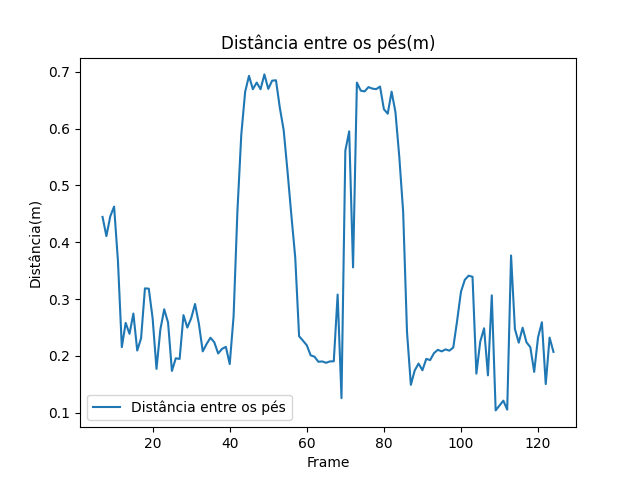
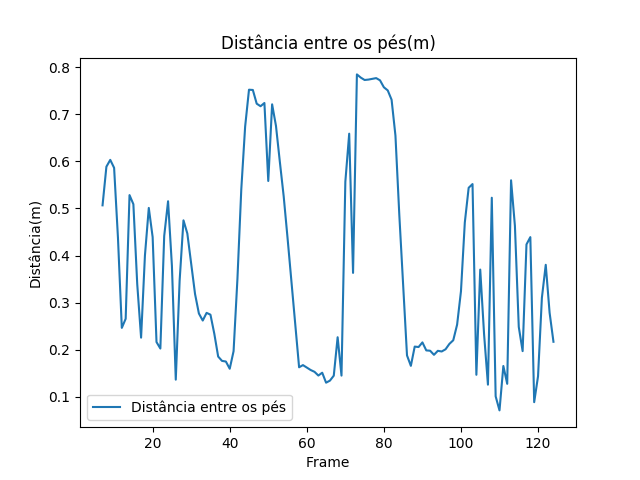
corrige o pé para ankle e add decorator

diff --git a/dataset-creator/calculate.py b/dataset-creator/calculate.py
@@ -6,6 +6,7 @@ import numpy as np
 import math
 from collections import defaultdict
 import matplotlib.pyplot as plt
+
 """
 HumanKeypoints
 Models keypoints present in the human body.
@@ -129,28 +130,28 @@ class Calculate:
         "20": "CHEST",
     }
     human_parts_name = {
-    "UNKNOWN_HUMAN_KEYPOINT": "0",
-    "HEAD": "1",
-    "NOSE": "2",
-    "NECK": "3",
-    "RIGHT_SHOULDER": "4",
-    "RIGHT_ELBOW": "5",
-    "RIGHT_WRIST": "6",
-    "LEFT_SHOULDER": "7",
-    "LEFT_ELBOW": "8",
-    "LEFT_WRIST": "9",
-    "RIGHT_HIP": "10",
-    "RIGHT_KNEE": "11",
-    "RIGHT_ANKLE": "12",
-    "LEFT_HIP": "13",
-    "LEFT_KNEE": "14",
-    "LEFT_ANKLE": "15",
-    "RIGHT_EYE": "16",
-    "LEFT_EYE": "17",
-    "RIGHT_EAR": "18",
-    "LEFT_EAR": "19",
-    "CHEST": "20",
-}
+        "UNKNOWN_HUMAN_KEYPOINT": "0",
+        "HEAD": "1",
+        "NOSE": "2",
+        "NECK": "3",
+        "RIGHT_SHOULDER": "4",
+        "RIGHT_ELBOW": "5",
+        "RIGHT_WRIST": "6",
+        "LEFT_SHOULDER": "7",
+        "LEFT_ELBOW": "8",
+        "LEFT_WRIST": "9",
+        "RIGHT_HIP": "10",
+        "RIGHT_KNEE": "11",
+        "RIGHT_ANKLE": "12",
+        "LEFT_HIP": "13",
+        "LEFT_KNEE": "14",
+        "LEFT_ANKLE": "15",
+        "RIGHT_EYE": "16",
+        "LEFT_EYE": "17",
+        "RIGHT_EAR": "18",
+        "LEFT_EAR": "19",
+        "CHEST": "20",
+    }
 
     class Vector:
         """Um segmento do corpo pode ser tratado como um vetor, com origem no ponto A e destino no ponto B. Assim, usamos álgebra para obter sua magnitude e ângulo criando vetores entre dois pontos do corpo."""
@@ -193,6 +194,23 @@ class Calculate:
         def __floordiv__(self, other):
             return self.calculate_angle(other)
 
+    def tratar_erro_frame(func):
+        """Decorator para fazer o try except automaticamente em todas as funções de cálculo.
+
+        Args:
+            func (function): Função que será decorada(Usa-se o @tratar_erro_frame acima da função)
+        """        
+        def wrapper(self, *args, **kwargs):
+            try:
+                result = func(self, *args, **kwargs)
+            except Exception as e:
+                print(f"Erro {e}")
+                return np.nan
+
+            return result
+
+        return wrapper
+
     def __init__(self, file3d):
         # Dicionario para guardar as informações que serão plotadas posteriormente
         self.plot_data: defaultdict = defaultdict(list)
@@ -205,18 +223,17 @@ class Calculate:
     def run_frames(self):
         """Passa por todos os frames, calculando as informações necessárias para o plot usando a classe Skeleton para guardar as informações. Ao final, chama a função que plota os dados"""
         for i, frame_info in enumerate(self.data):
-            self._calculate_angle('13','14','15', frame_info)
-
+            self.skeleton = Skeleton(frame_info) #Atualiza o esqueleto do frame
             # Distancia
 
             ## Distancia dos pés
-            self.plot_data['distancia_pes'].append(self.distancia_pes())
+            self.plot_data["distancia_pes"].append(self.distancia_pes())
 
             # Altura
 
             ## Altura do pé
-            self.plot_data['altura_pe_esquerdo'].append(self.altura_do_pe('esquerdo'))
-            self.plot_data['altura_pe_direito'].append(self.altura_do_pe('direito'))
+            self.plot_data["altura_pe_esquerdo"].append(self.altura_do_pe("esquerdo"))
+            self.plot_data["altura_pe_direito"].append(self.altura_do_pe("direito"))
 
             # Calcula os ângulos entre os segmentos do corpo
 
@@ -230,43 +247,41 @@ class Calculate:
             ## Joelho direito
             self.plot_data["angulo_joelho_direito"].append(self.angulo_joelho_direito())
 
-    def angulo_tronco_vertical(self):  # 20 é o id do peito no HKP
-        try:
-            joint_tronco = self.human_parts_name["CHEST"]
-            joint_neck = self.human_parts_name["NECK"]
-            chest: Skeleton.Joint = self.skeleton.joints[joint_tronco]
-            neck: Skeleton.Joint = self.skeleton.joints[joint_neck]
-            point_vertical = chest + Skeleton.Joint(
-                "vertical", 0, 0, 1
-            )  # uma unidade de z acima do chest
+    @tratar_erro_frame
+    def angulo_tronco_vertical(self):
+        """_summary_
 
-            vertical_vector = Calculate.Vector(
-                chest, point_vertical
-            )  # Vetor paralelo ao eixo z
-            chest_neck_vector = Calculate.Vector(
-                chest, neck
-            )  # Vetor entre o peito e o pescoço
-        except KeyError:
-            return np.nan
-        else:
-            return round(vertical_vector // chest_neck_vector,3)  # Angulo
+        Returns:
+            _type_: _description_
+        """        
+        joint_tronco = self.human_parts_name["CHEST"]
+        joint_neck = self.human_parts_name["NECK"]
+        chest: Skeleton.Joint = self.skeleton.joints[joint_tronco]
+        neck: Skeleton.Joint = self.skeleton.joints[joint_neck]
+        point_vertical = chest + Skeleton.Joint(
+            "vertical", 0, 0, 1
+        )  # uma unidade de z acima do chest
 
+        vertical_vector = Calculate.Vector(
+            chest, point_vertical
+        )  # Vetor paralelo ao eixo z
+        chest_neck_vector = Calculate.Vector(
+            chest, neck
+        )  # Vetor entre o peito e o pescoço
+
+        return round(vertical_vector // chest_neck_vector, 3)  # Angulo
+
+    @tratar_erro_frame
     def distancia_pes(self):
+        pe_esquerdo = self.human_parts_name["LEFT_ANKLE"]
+        pe_direito = self.human_parts_name["RIGHT_ANKLE"]
+        joint_pe_esquerdo = self.skeleton.joints[pe_esquerdo]
+        joint_pe_direito = self.skeleton.joints[pe_direito]
+        vetor = Calculate.Vector(joint_pe_esquerdo, joint_pe_direito)
 
-        try:
-            pe_esquerdo = self.human_parts_name["LEFT_KNEE"]
-            pe_direito = self.human_parts_name["RIGHT_KNEE"]
-            joint_pe_esquerdo = self.skeleton.joints[pe_esquerdo]
-            joint_pe_direito = self.skeleton.joints[pe_direito]
-            vetor = Calculate.Vector(joint_pe_esquerdo,joint_pe_direito)
-        except:
-            return np.nan
-        else:
+        return vetor.magnitude
 
-            return vetor.magnitude
-        
-        
-
+    @tratar_erro_frame
     def _calculate_angle(self, first, central, last):
         """Calcula o ângulo entre tres pontos.
         Função usada por outras funções para calcular ângulos entre segmentos do corpo.
@@ -280,16 +295,12 @@ class Calculate:
         Returns:
             float: ângulo em graus
         """
-        try:
-            first_joint = self.skeleton.joints[first]
-            central_joint = self.skeleton.joints[central]
-            last_joint = self.skeleton.joints[last]
-            first_vector = Calculate.Vector(central_joint, first_joint)
-            second_vector = Calculate.Vector(central_joint, last_joint)
-        except KeyError:
-            return np.nan
-        else:
-            return round(first_vector // second_vector,3)
+        first_joint = self.skeleton.joints[first]
+        central_joint = self.skeleton.joints[central]
+        last_joint = self.skeleton.joints[last]
+        first_vector = Calculate.Vector(central_joint, first_joint)
+        second_vector = Calculate.Vector(central_joint, last_joint)
+        return round(first_vector // second_vector, 3)
 
     def angulo_joelho_direito(self):
         return self._calculate_angle("10", "11", "12")
@@ -297,33 +308,36 @@ class Calculate:
     def angulo_joelho_esquerdo(self):
         return self._calculate_angle("13", "14", "15")
 
+    @tratar_erro_frame
+    def altura_do_pe(self, lado: str):
+        assert lado in ("esquerdo", "direito"), 'Lado deve ser "esquerdo" ou "direito"'
+        joint_pe = (
+            self.human_parts_name["RIGHT_ANKLE"]
+            if lado == "direito"
+            else self.human_parts_name["LEFT_ANKLE"]
+        )
+        pe = self.skeleton.joints[joint_pe]
+
+        chao = Skeleton.Joint("chao", 0, 0, 0)
+
+        altura = Calculate.Vector(chao, pe)
+        return abs(altura.z)
+
     def read_json(self):
         with open(self.file3d) as f:
             data: list = json.load(f)["localizations"]
         return data
-    def altura_do_pe(self,lado:str):
 
-        assert lado in ("esquerdo","direito"),'Lado deve ser "esquerdo" ou "direito"'
-        try:
-            joint_pe = self.human_parts_name["RIGHT_KNEE"] if lado=='direito' else self.human_parts_name["LEFT_KNEE"]
-            pe = self.skeleton.joints[joint_pe]
-
-            chao = Skeleton.Joint('chao',0,0,0)
-
-            altura = Calculate.Vector(chao,pe)
-        except KeyError:
-            return np.nan
-        else:
-            return abs(altura.z)
 
 class Plot:
-    PASTA_RESULTADO = 'resultados'
+    PASTA_RESULTADO = "resultados"
+
     def __init__(self, data):
-        os.makedirs(self.PASTA_RESULTADO,exist_ok=True)
+        os.makedirs(self.PASTA_RESULTADO, exist_ok=True)
         self.data = data
 
         self.plot()
-    
+
     def plot(self):
         self.plot_joelho()
         self.plot_tronco()
@@ -332,12 +346,12 @@ class Plot:
 
     def plot_distancia_pes(self):
         fig, ax = plt.subplots()
-        ax.plot(self.data['distancia_pes'], label = 'Distância entre os pés')
-        ax.set_title('Distância entre os pés(m)')
+        ax.plot(self.data["distancia_pes"], label="Distância entre os pés")
+        ax.set_title("Distância entre os pés(m)")
         ax.set_xlabel("Frame")
         ax.set_ylabel("Distância(m)")
         ax.legend()
-        plt.savefig(os.path.join(self.PASTA_RESULTADO,"distancia_pes.png"))
+        plt.savefig(os.path.join(self.PASTA_RESULTADO, "distancia_pes.png"))
 
     def plot_joelho(self):
         fig, ax = plt.subplots()
@@ -347,18 +361,17 @@ class Plot:
         ax.set_xlabel("Frame")
         ax.set_ylabel("Ângulo")
         ax.legend()
-        
-        plt.savefig(os.path.join(self.PASTA_RESULTADO,"angulo_joelho.png"))
+
+        plt.savefig(os.path.join(self.PASTA_RESULTADO, "angulo_joelho.png"))
 
     def plot_tronco(self):
-
-        fig,ax = plt.subplots()
+        fig, ax = plt.subplots()
         ax.plot(self.data["angulo_tronco"], label="Ângulo do tronco")
         ax.set_title("Ângulo do tronco(graus)")
         ax.set_xlabel("Frame")
         ax.set_ylabel("Ângulo com o plano vertical")
         ax.legend()
-        plt.savefig(os.path.join(self.PASTA_RESULTADO,"angulo_tronco.png"))
+        plt.savefig(os.path.join(self.PASTA_RESULTADO, "angulo_tronco.png"))
 
     def plot_altura_pe(self):
         fig, ax = plt.subplots()
@@ -369,12 +382,12 @@ class Plot:
         ax.set_ylabel("Altura")
         ax.legend()
 
-        plt.savefig(os.path.join(self.PASTA_RESULTADO,"altura_pe.png"))
+        plt.savefig(os.path.join(self.PASTA_RESULTADO, "altura_pe.png"))
+
 
 if __name__ == "__main__":
     calc = Calculate("videos/p001g01_3d.json")
     calc.run_frames()
-    print(calc.plot_data['altura_pe_direito'])
+    print(calc.plot_data["altura_pe_direito"])
 
     plot = Plot(calc.plot_data)
-    
